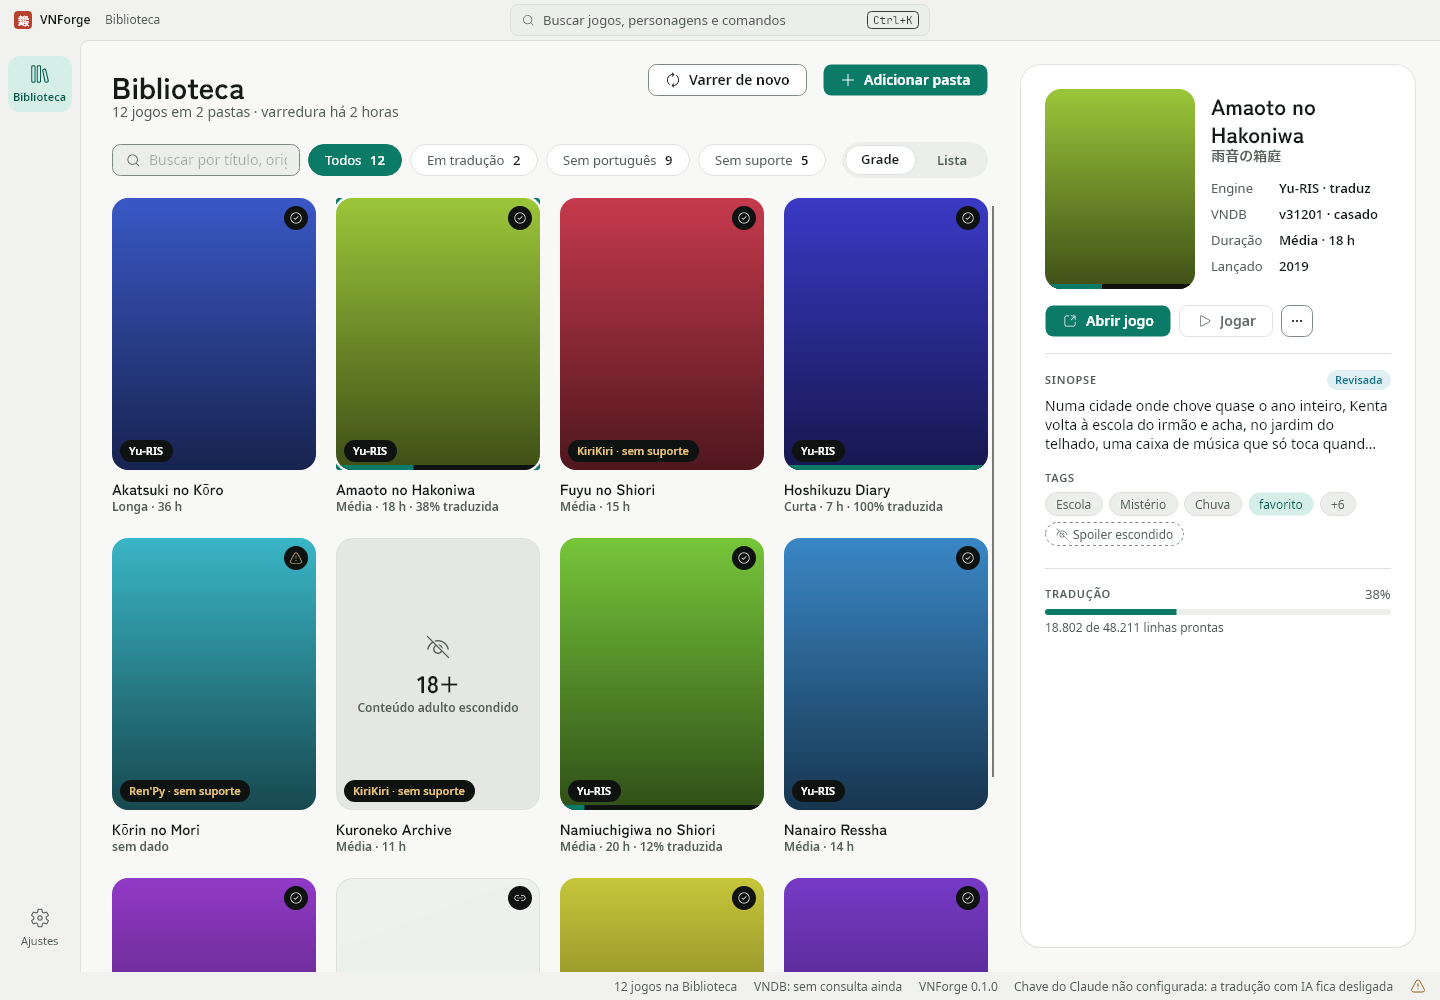
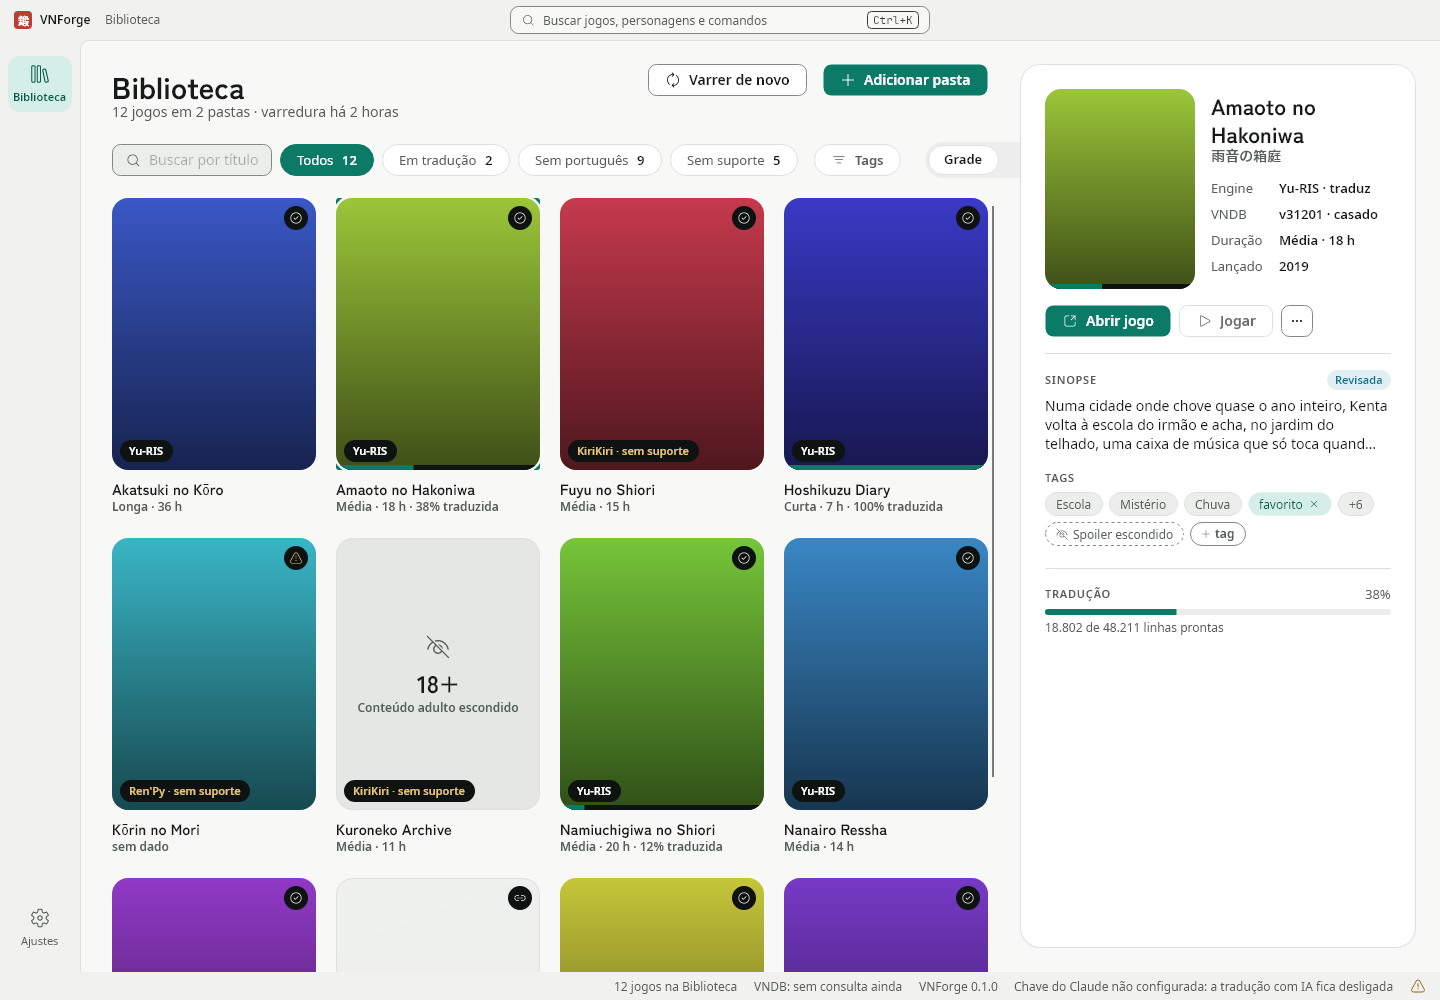
feat: Pôr e tirar tag sua de um jogo pela gaveta da Biblioteca (Refs #559)

diff --git a/src/VNForge.App/ViewModels/LibraryDrawerViewModel.cs b/src/VNForge.App/ViewModels/LibraryDrawerViewModel.cs
@@ -1,3 +1,6 @@
+using System.Collections.ObjectModel;
+using CommunityToolkit.Mvvm.ComponentModel;
+using CommunityToolkit.Mvvm.Input;
 using VNForge.Core.Library;
 
 namespace VNForge.App.ViewModels;
@@ -11,6 +14,12 @@ public sealed record LibraryDrawerChip(string Text, LibraryDrawerChipKind Kind)
     public bool IsHidden => Kind == LibraryDrawerChipKind.Hidden;
 
     public bool IsPlain => Kind != LibraryDrawerChipKind.Hidden;
+
+    /// <summary>O chip "+ tag" que abre a escolha das suas tags.</summary>
+    public bool IsAdd => Kind == LibraryDrawerChipKind.Add;
+
+    /// <summary>Uma tag de verdade: nem o marcador de escondida nem o "+ tag".</summary>
+    public bool IsTag => Kind is LibraryDrawerChipKind.Vndb or LibraryDrawerChipKind.Mine or LibraryDrawerChipKind.More;
 }
 
 public enum LibraryDrawerChipKind
@@ -19,9 +28,10 @@ public enum LibraryDrawerChipKind
     Mine,
     More,
     Hidden,
+    Add,
 }
 
-public sealed class LibraryDrawerViewModel(LibraryCardViewModel card, LibraryDrawer drawer, LibraryViewModel library)
+public sealed partial class LibraryDrawerViewModel(LibraryCardViewModel card, LibraryDrawer drawer, LibraryViewModel library) : ObservableObject
 {
     public LibraryCardViewModel Card { get; } = card;
 
@@ -74,7 +84,82 @@ public sealed class LibraryDrawerViewModel(LibraryCardViewModel card, LibraryDra
             chips.Add(new LibraryDrawerChip("Adulto escondido", LibraryDrawerChipKind.Hidden));
         }
 
+        chips.Add(new LibraryDrawerChip("tag", LibraryDrawerChipKind.Add));
         return chips;
+    }
+
+    /// <summary>As suas tags (todas as do registro) com a caixa marcada nas que este jogo tem, para o "+ tag".</summary>
+    public ObservableCollection<LibraryTagOptionViewModel> PickerOptions { get; } = [];
+
+    [ObservableProperty]
+    public partial bool IsPickerOpen { get; set; }
+
+    [ObservableProperty]
+    public partial string NewTagName { get; set; } = string.Empty;
+
+    public bool HasNoOwnTags => PickerOptions.Count == 0;
+
+    partial void OnIsPickerOpenChanged(bool value)
+    {
+        if (value)
+        {
+            NewTagName = string.Empty;
+            LoadPicker();
+        }
+    }
+
+    private void LoadPicker()
+    {
+        PickerOptions.Clear();
+        var tags = Library.UserTags;
+        foreach (var tag in tags.Tags)
+        {
+            PickerOptions.Add(new LibraryTagOptionViewModel(tag.Name, tag.Name, tags.GamesWith(tag.Name).Count, true, tags.Has(Card.Id, tag.Name)));
+        }
+
+        OnPropertyChanged(nameof(HasNoOwnTags));
+    }
+
+    [RelayCommand]
+    private void TogglePicker() => IsPickerOpen = !IsPickerOpen;
+
+    /// <summary>Marca ou desmarca a tag no jogo; a gaveta se refaz e o escolhedor continua aberto para a próxima.</summary>
+    [RelayCommand]
+    private void ToggleTag(LibraryTagOptionViewModel? option)
+    {
+        if (option is not null)
+        {
+            Apply(option.Text, !option.IsChecked);
+        }
+    }
+
+    /// <summary>O x do chip de uma tag sua.</summary>
+    [RelayCommand]
+    private void RemoveTag(LibraryDrawerChip? chip)
+    {
+        if (chip is { Mine: true })
+        {
+            Apply(chip.Text, false);
+        }
+    }
+
+    /// <summary>Cria a tag com o nome digitado e já a põe no jogo.</summary>
+    [RelayCommand]
+    private void CreateTag()
+    {
+        if (!string.IsNullOrWhiteSpace(NewTagName))
+        {
+            Apply(NewTagName, true);
+        }
+    }
+
+    private void Apply(string name, bool on)
+    {
+        var open = IsPickerOpen;
+        if (Library.SetGameTag(Card.Id, name, on) && Library.Drawer is { } fresh)
+        {
+            fresh.IsPickerOpen = open;
+        }
     }
 
     public bool HasTags => drawer.Tags.Count > 0 || drawer.MoreTags > 0 || ShowSpoilerMarker || ShowAdultMarker;

diff --git a/tests/VNForge.App.Tests/LibraryTagsViewModelTests.cs b/tests/VNForge.App.Tests/LibraryTagsViewModelTests.cs
@@ -178,4 +178,43 @@ public sealed class LibraryTagsViewModelTests : IDisposable
         Assert.Equal(["favorito"], vm.Tags.Active.Select(t => t.Text));
         Assert.Equal(2, vm.Cards.Count);
     }
+
+    [Fact]
+    public async Task Por_tag_no_jogo_pelo_chip_mais_tag_escolhendo_ou_criando()
+    {
+        var vm = await Open(Favorites);
+        vm.Select(vm.Cards.Single(c => c.Id == Id(0)));
+        var drawer = vm.Drawer!;
+        Assert.Contains(drawer.Chips, c => c.IsAdd);
+
+        drawer.TogglePickerCommand.Execute(null);
+        var rejogar = drawer.PickerOptions.Single(o => o.Text == "rejogar");
+        Assert.False(rejogar.IsChecked);
+        drawer.ToggleTagCommand.Execute(rejogar);
+
+        Assert.Equal(["favorito", "rejogar"], TagsFile.Load().TagsOf(Id(0)));
+        Assert.True(vm.Drawer!.IsPickerOpen);
+        Assert.Equal(["favorito", "rejogar"], vm.Drawer.Chips.Where(c => c.Mine).Select(c => c.Text));
+        Assert.True(vm.Drawer.PickerOptions.Single(o => o.Text == "rejogar").IsChecked);
+
+        vm.Drawer.NewTagName = "  Pra  Rever ";
+        vm.Drawer.CreateTagCommand.Execute(null);
+
+        Assert.Equal(["favorito", "pra rever", "rejogar"], TagsFile.Load().TagsOf(Id(0)));
+        Assert.Contains(vm.Tags.OwnOptions, o => o is { Text: "pra rever", Count: 1 });
+    }
+
+    [Fact]
+    public async Task Tirar_tag_do_jogo_pelo_x_do_chip_so_tira_dele()
+    {
+        var vm = await Open(Favorites);
+        vm.Select(vm.Cards.Single(c => c.Id == Id(0)));
+
+        vm.Drawer!.RemoveTagCommand.Execute(vm.Drawer.Chips.Single(c => c.Mine));
+
+        Assert.Empty(TagsFile.Load().TagsOf(Id(0)));
+        Assert.Equal(["favorito", "rejogar"], TagsFile.Load().TagsOf(Id(1)));
+        Assert.DoesNotContain(vm.Drawer!.Chips, c => c.Mine);
+        Assert.Contains(vm.Tags.OwnOptions, o => o is { Text: "favorito", Count: 1 });
+    }
 }

diff --git a/src/VNForge.App/ViewModels/LibraryViewModel.cs b/src/VNForge.App/ViewModels/LibraryViewModel.cs
@@ -302,6 +302,32 @@ public sealed partial class LibraryViewModel : ObservableObject
         }
     }
 
+    /// <summary>Põe a tag no jogo (criando-a se for nova) ou a tira, grava e redesenha a grade, a gaveta e as contagens. Falso quando a edição não valeu (o aviso já foi dado).</summary>
+    internal bool SetGameTag(string gameId, string name, bool on)
+    {
+        var done = EditTags(t =>
+        {
+            if (on)
+            {
+                t.Add(gameId, name);
+            }
+            else if (t.TryGet(name, out _))
+            {
+                t.Remove(gameId, name);
+            }
+
+            return t;
+        });
+        if (done is null)
+        {
+            return false;
+        }
+
+        Tags.Refresh();
+        Refilter();
+        return true;
+    }
+
     [RelayCommand]
     private void ToggleFilter(LibraryFilterChipViewModel? chip) => SelectFilter(chip?.Filter ?? LibraryFilter.All);
 
